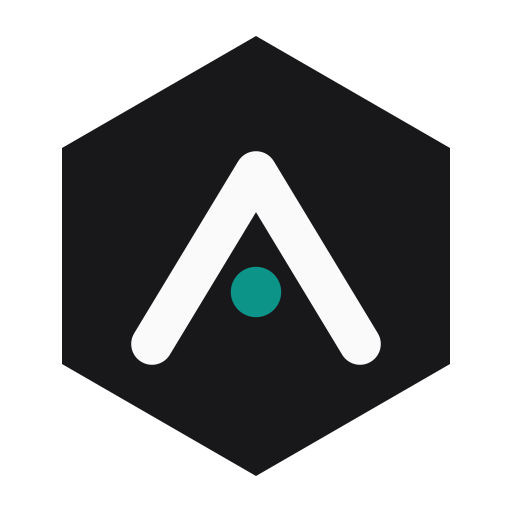
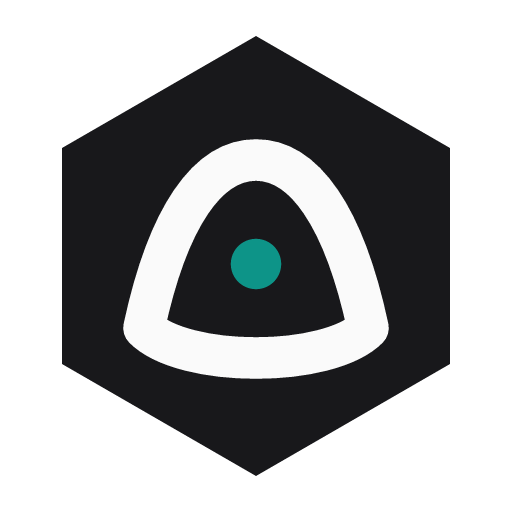
Replace the letter-A mark with an Ithaca island.
Acahti is Ithaca reversed; the mark is now the island and hearth instead of a typographic A.

Changed region(s): [[0.2188, 0.25, 0.7812, 0.75]]

diff --git a/web/src/components/logo.tsx b/web/src/components/logo.tsx
@@ -16,9 +16,9 @@ export function AcahtiMark({ className }: { className?: string }) {
         strokeWidth="5.2"
         strokeLinecap="round"
         strokeLinejoin="round"
-        d="M19 43 32 21.5 45 43"
+        d="M18 41c3-14 8-21 14-21s11 7 14 21c-5 5-23 5-28 0z"
       />
-      <circle cx="32" cy="36.5" r="3.15" fill="#0d9488" />
+      <circle cx="32" cy="33" r="3.15" fill="#0d9488" />
     </svg>
   )
 }
